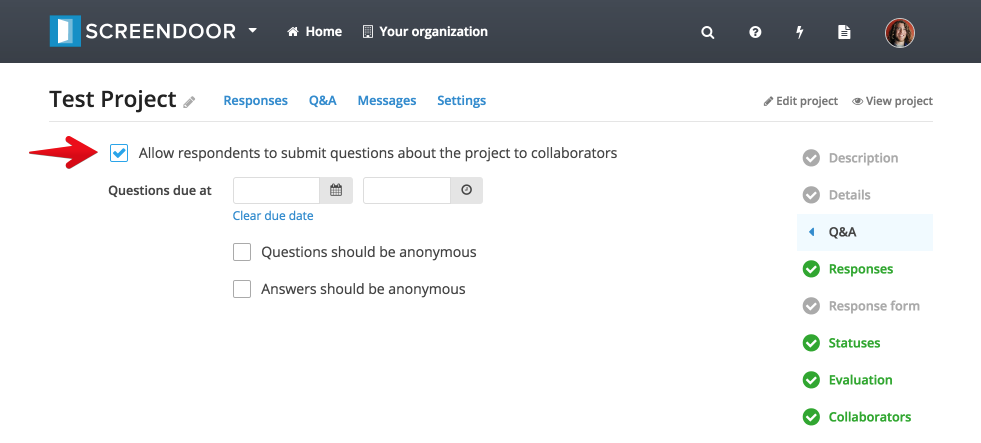
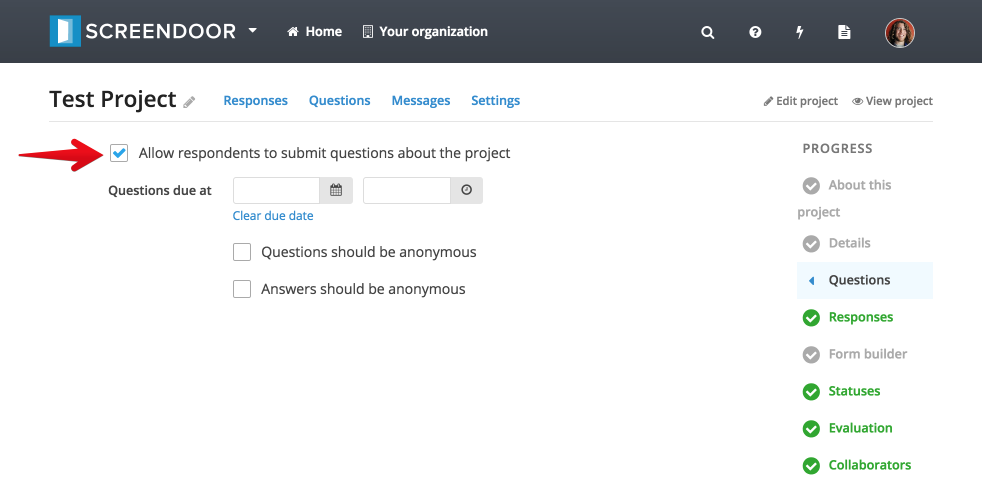
q&a -> questions

diff --git a/contents/articles/screendoor/question_and_answer/managing_questions.md b/contents/articles/screendoor/question_and_answer/managing_questions.md
@@ -11,15 +11,15 @@ If you haven't configured the question and answer section for your project yet, 
 
 ## Managing questions
 
-To manage questions (and answers) for your project, click the "Q&A" link from your project page. You can display all questions or only unanswered questions by selecting the appropriate box from the left-hand side of the "Q&A" page.
+To manage questions (and answers) for your project, click the "Questions" link from your project page. You can display all questions or only unanswered questions by selecting the appropriate box from the left-hand side of the "Questions" page.
 
 ![q&a filter](../images/qa_filter.png)
 
-To delete a question, select it from the table of questions on the "Q&A" page and then click the "Delete question" link at the bottom of the page.
+To delete a question, select it from the table of questions on the "Questions" page and then click the "Delete question" link at the bottom of the page.
 
 ## Answering questions
 
-To answer a question, select it from the table on the "Q&A" page. Enter your answer, select whether or not you'd like it to be displayed publicly, and then click the "Post answer" button.
+To answer a question, select it from the table on the "Questions" page. Enter your answer, select whether or not you'd like it to be displayed publicly, and then click the "Post answer" button.
 
 ![answer question](../images/answer_question.png)
 

diff --git a/contents/articles/screendoor/question_and_answer/configuring_the_question_and_answer_section.md b/contents/articles/screendoor/question_and_answer/configuring_the_question_and_answer_section.md
@@ -5,7 +5,7 @@ app_pages:
   - projectwizard-questionandanswer
 ---
 
-To enable and configure the question and answer section for your project, click "Edit project" and select "Q&A" from the Project Checklist. Make sure the checkbox next to "Allow respondents to submit questions about the project to collaborators" is checked.
+To enable and configure the question and answer section for your project, click "Edit project" and select "Questions" from the "Progress" menu. Make sure the checkbox next to "Allow respondents to submit questions about the project to collaborators" is checked.
 
 ![q&a](../images/qa.png)
 

diff --git a/contents/articles/screendoor/response_form/building_your_form.md b/contents/articles/screendoor/response_form/building_your_form.md
@@ -7,7 +7,7 @@ app_pages:
 
 ## Building your form
 
-At the heart of your project is your response form. You'll build your form when you first create your project, but you can also always go back and edit your form by clicking "Edit project" and selecting "Response form" from the Project Checklist.
+At the heart of your project is your response form. You'll build your form when you first create your project, but you can also always go back and edit your form by clicking "Edit project" and selecting "Form builder" from the "Progress" menu.
 
 ### Adding new fields
 
